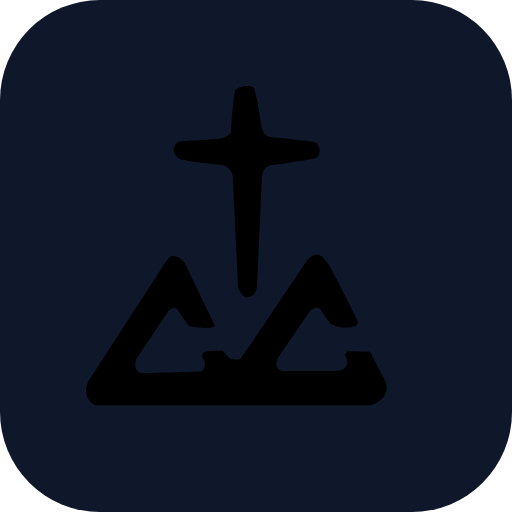
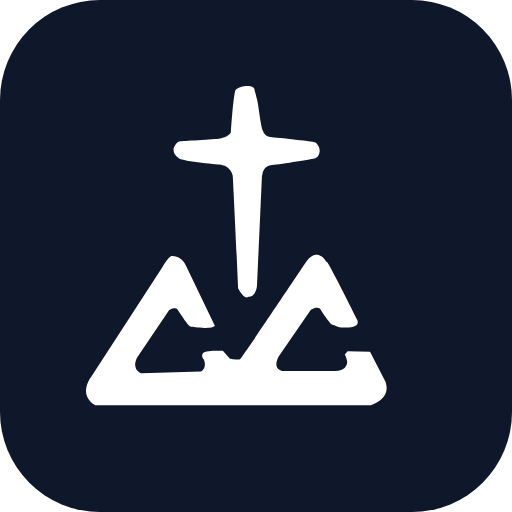
Set emblem symbol fill to pure white #FFFFFF for high visibility on dark navy background (v26)

Changed region(s): [[0.1562, 0.5, 0.7812, 0.8125], [0.3438, 0.1562, 0.625, 0.5938]]

diff --git a/index.html b/index.html
@@ -9,13 +9,13 @@
   <meta name="apple-mobile-web-app-title" content="임마누엘성가대">
   <title>갈보리교회 임마누엘성가대</title>
 
-  <link rel="apple-touch-icon" href="assets/apple-touch-icon.png?v=25">
-  <link rel="icon" type="image/png" sizes="192x192" href="assets/icon-192.png?v=25">
-  <link rel="manifest" href="manifest.json?v=25">
+  <link rel="apple-touch-icon" href="assets/apple-touch-icon.png?v=26">
+  <link rel="icon" type="image/png" sizes="192x192" href="assets/icon-192.png?v=26">
+  <link rel="manifest" href="manifest.json?v=26">
   <link rel="preconnect" href="https://fonts.googleapis.com">
   <link rel="preconnect" href="https://fonts.gstatic.com" crossorigin>
   <link href="https://fonts.googleapis.com/css2?family=Noto+Sans+KR:wght@400;500;700;900&display=swap" rel="stylesheet">
-  <link rel="stylesheet" href="css/styles.css?v=25">
+  <link rel="stylesheet" href="css/styles.css?v=26">
 </head>
 <body>
   <!-- 메인 앱 콘테이너 -->
@@ -564,8 +564,8 @@
     </div>
   </div>
 
-  <script src="js/storage.js?v=25"></script>
-  <script src="js/app.js?v=25"></script>
+  <script src="js/storage.js?v=26"></script>
+  <script src="js/app.js?v=26"></script>
   <script>
     // 서비스 워커 등록 및 자동 캐시 갱신 (PWA)
     if ('serviceWorker' in navigator) {
@@ -578,7 +578,7 @@
       });
 
       window.addEventListener('load', () => {
-        navigator.serviceWorker.register('sw.js?v=25')
+        navigator.serviceWorker.register('sw.js?v=26')
           .then(reg => {
             console.log('PWA ServiceWorker registered', reg);
             reg.update();

diff --git a/sw.js b/sw.js
@@ -1,4 +1,4 @@
-const CACHE_NAME = 'calvary-choir-v25';
+const CACHE_NAME = 'calvary-choir-v26';
 const ASSETS_TO_CACHE = [
   './',
   './index.html',
